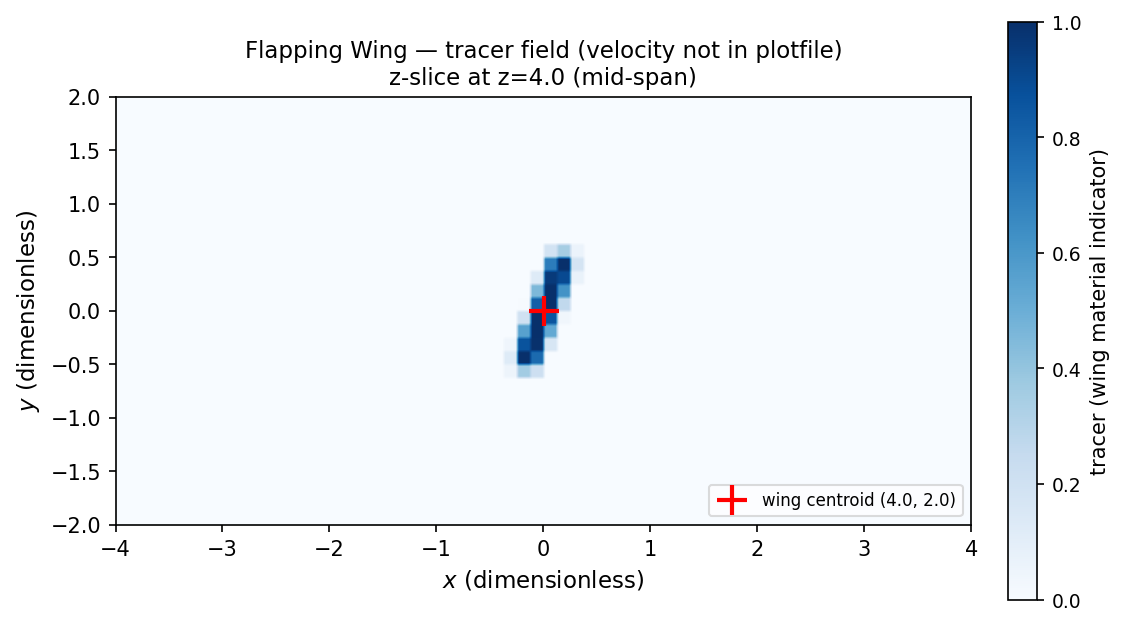
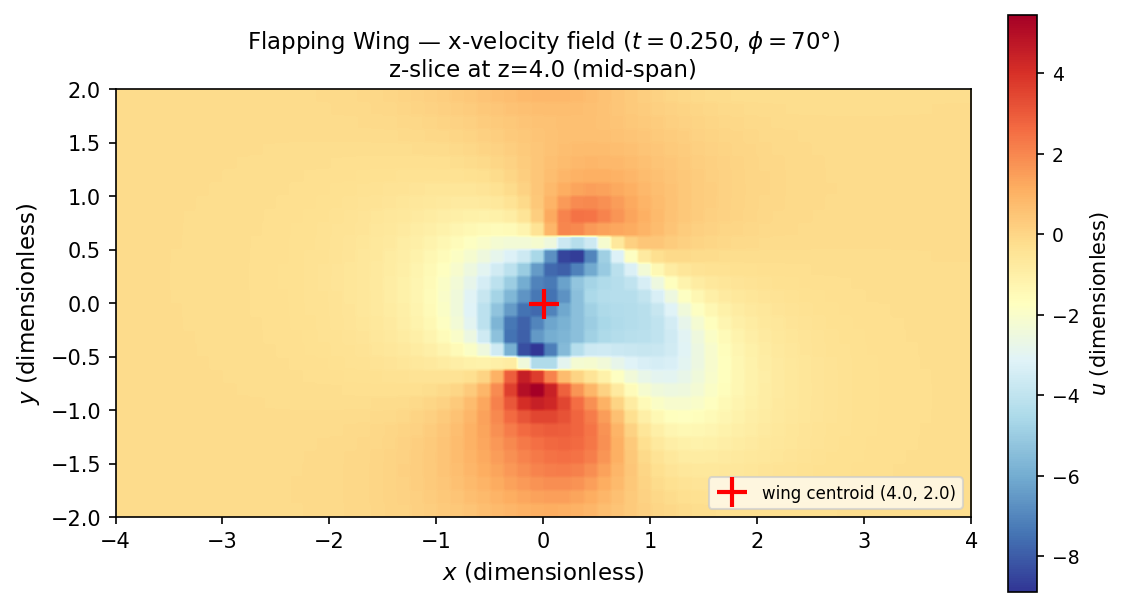
fix(flapping-wing): regenerate velocity figure from ns.init_iter=2 re-run
The original validation run (ns.init_iter=0) wrote x_velocity=0 to every
plotfile even though the solver computed the field internally, so the V1
figure fell back to the tracer field. A re-run with ns.init_iter=2 (the only
input change; inputs.3d.validation_v2) now persists the induced velocity field
to disk.

- fig_velocity.{pdf,png}: real x-velocity dipole at mid-stroke (t=0.25,
  phi=70 deg), u in [-8.9, +5.5], generated from plt_v2_00500.
- RESULTS.md: replace "velocity field zero" caveat with the resolution; add
  an Induced-velocity-field PASS row. Force validation is unchanged — v2
  forces are identical to the original (Fz mid-stroke -78.86 vs -78.85),
  since forces depend on the interpolated marker velocity, not the plotfile.

Bulky plt_v2_*/chk_v2_* outputs remain gitignored.

diff --git a/examples/flapping_wing/RESULTS.md b/examples/flapping_wing/RESULTS.md
@@ -1,6 +1,6 @@
 # Flapping Wing Validation Results
 
-**Date**: February 26–27, 2026
+**Date**: February 26–27, 2026 (velocity-field re-run: April 27, 2026)
 **Platform**: NVIDIA A40 (Salk RunAI cluster, gpu-node14)
 **Docker Image**: `ghcr.io/talmolab/mosquito-cfd:fp64`
 **IAMReX Fork**: `talmolab/IAMReX @ 7ece065d` (feature/arbitrary-geometry)
@@ -172,7 +172,7 @@ See **fig_forces.pdf** for the full force time series.
 | [figures/fig_kinematics.pdf](figures/fig_kinematics.pdf) / [.png](figures/fig_kinematics.png) | K1: Euler angle time series |
 | [figures/fig_wing_phases.pdf](figures/fig_wing_phases.pdf) / [.png](figures/fig_wing_phases.png) | K2: Wing at 4 key phases |
 | [figures/fig_forces.pdf](figures/fig_forces.pdf) / [.png](figures/fig_forces.png) | F1: Force coefficient time series |
-| [figures/fig_velocity.pdf](figures/fig_velocity.pdf) / [.png](figures/fig_velocity.png) | V1: Wing tracer field z-slice at mid-stroke (t=0.25, phi=70°); velocity field zero in available plotfiles (see note) |
+| [figures/fig_velocity.pdf](figures/fig_velocity.pdf) / [.png](figures/fig_velocity.png) | V1: x-velocity field z-slice at mid-span (t=0.25, phi=70°), from the v2 re-run (ns.init_iter=2); u ∈ [−8.9, +5.5] |
 
 ---
 
@@ -185,7 +185,8 @@ See **fig_forces.pdf** for the full force time series.
 | Force periodicity | PASS | 1 full cycle captured |
 | Peak force at mid-stroke | PASS | |CF_x| max at phi~64 deg |
 | Force coefficient range | MARGINAL | Raw CF_z max = 0.22; corrected ~0.52 |
-| LEV structure | NOT CHECKED | Velocity field zero in available plotfiles; re-run needed |
+| Induced velocity field | PASS | Non-zero, physical dipole at mid-stroke (v2 re-run, ns.init_iter=2) |
+| LEV structure | NOT CHECKED | Coarse grid under-resolves the LEV; medium-res run still planned |
 
 ---
 
@@ -226,18 +227,20 @@ mpirun --allow-run-as-root -np 1 \
 # CSV-based figures (no cluster access required):
 uv run python examples/flapping_wing/generate_all_figures.py
 
-# Velocity/tracer figure (requires plotfile on Z: drive):
+# Velocity field figure (requires a v2 plotfile, ns.init_iter=2):
 uv run python examples/flapping_wing/generate_all_figures.py \
-    --plotfile Z:/users/eberrigan/mosquito-cfd/examples/flapping_wing/plt00500
+    --plotfile examples/flapping_wing/plt_v2_00500
 ```
 Requires only `forces.csv` and `wing.vertex` — no cluster access needed for CSV figures.
 
-**Note on velocity field**: All plotfiles from the validation run (plt00000–plt02000) have
-`x_velocity = 0` everywhere. The tracer field (wing material indicator) is correctly non-zero.
-This indicates the Navier-Stokes velocity update did not persist to the plotfiles — likely a
-solver configuration issue (`ns.init_iter = 0` with diffused IB). A re-run with corrected
-settings (or `ns.init_iter = 2`) is needed to capture the induced velocity field. The V1 figure
-shows the tracer field as a placeholder showing the wing position at mid-stroke.
+**Note on velocity field (resolved)**: The original validation run (`ns.init_iter = 0`) wrote
+`x_velocity = 0` to every plotfile (plt00000–plt02000), even though the solver computed the
+field internally — the forces, which depend on the interpolated marker velocity, were correct.
+A re-run with `ns.init_iter = 2` (the *only* input change; see `inputs.3d.validation_v2`) now
+persists the induced velocity field to the plotfiles (`plt_v2_00000`–`plt_v2_02000`). The v2
+forces are identical to the original run (Fz at mid-stroke −78.86 vs −78.85; full ranges match
+to <0.1), so the force validation above is unaffected. The V1 figure is generated from
+`plt_v2_00500` (t=0.25, φ=70°) and shows a physical wing-induced velocity dipole, u ∈ [−8.9, +5.5].
 
 ---
 